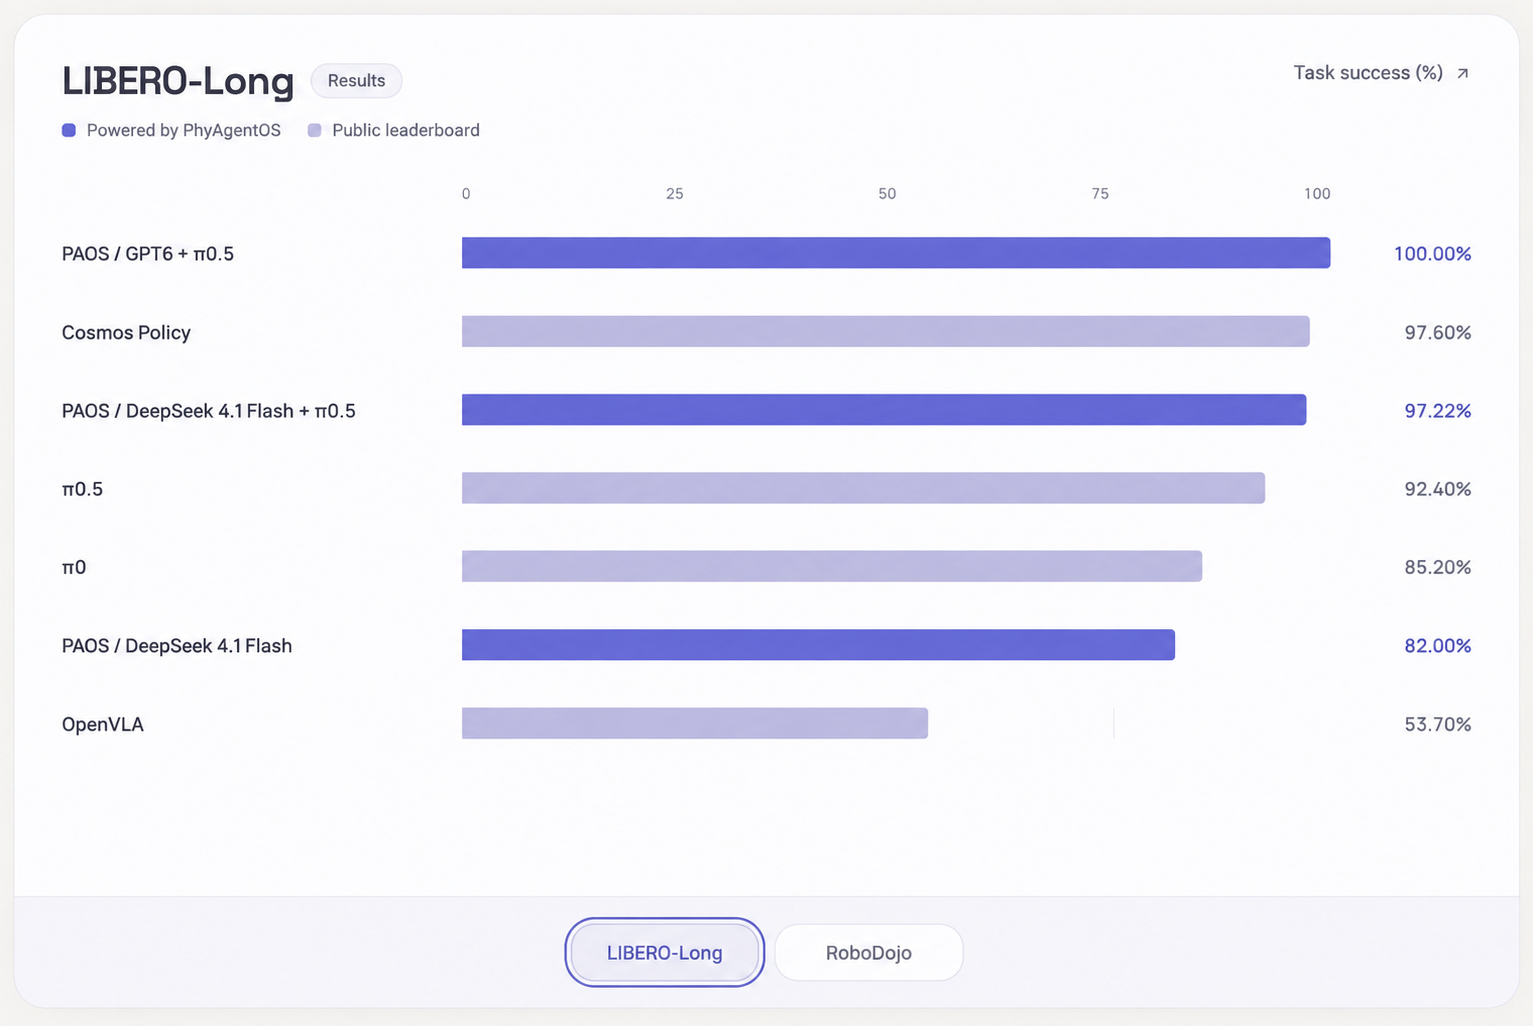
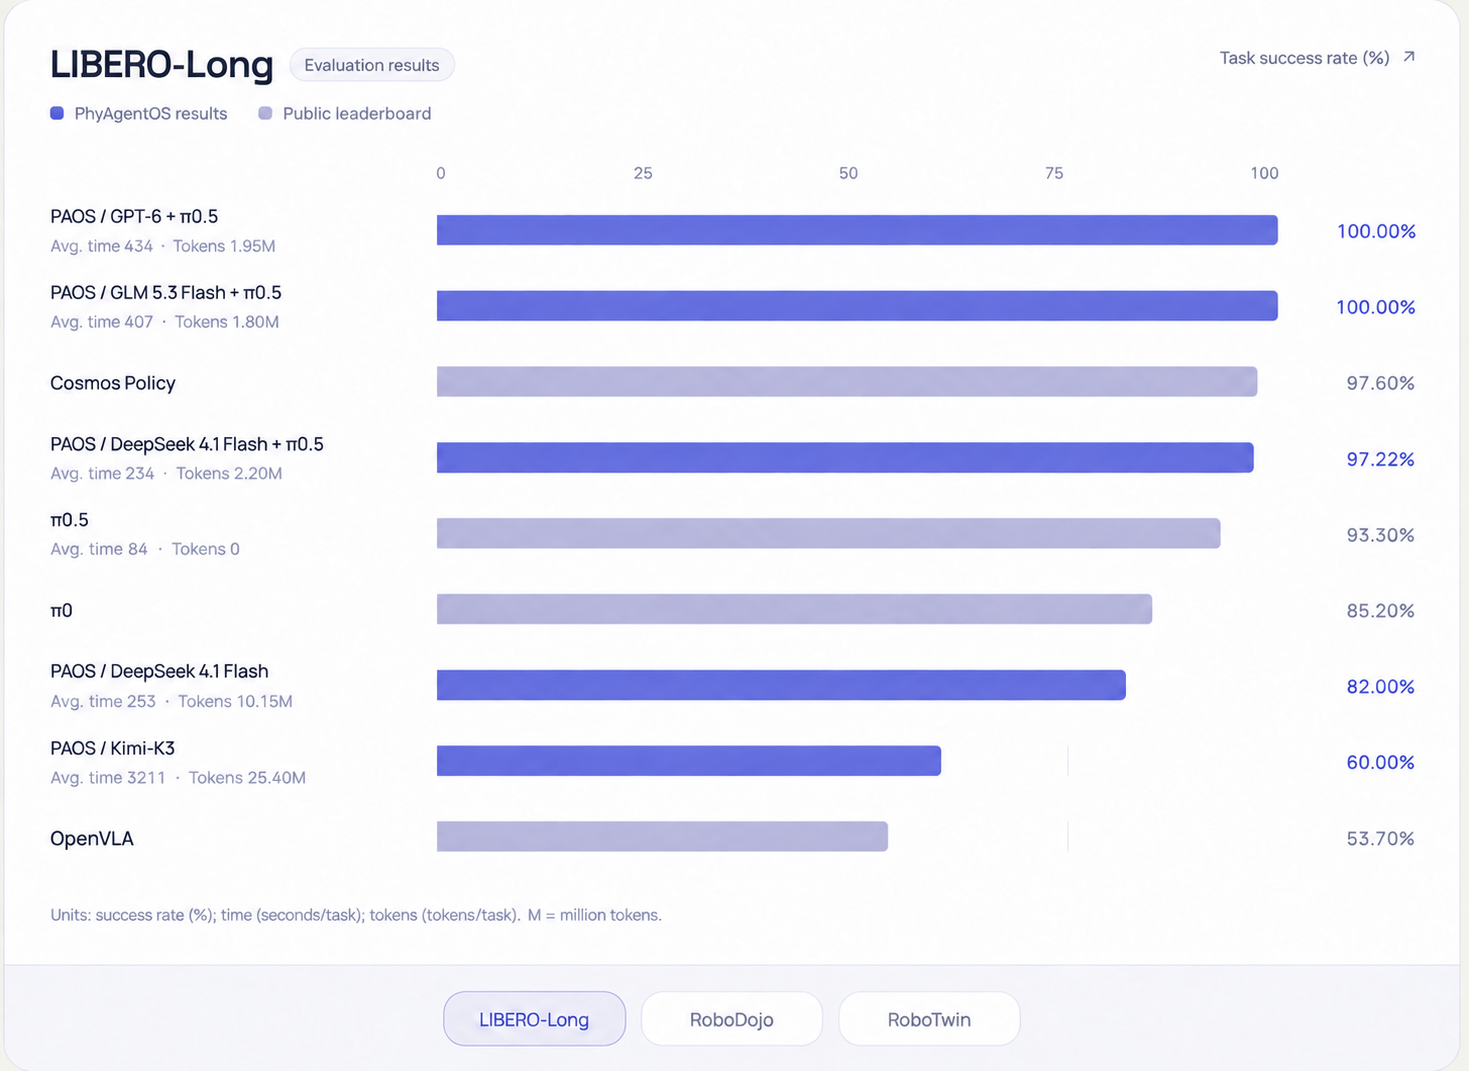
docs: refresh benchmark figures, metrics and evaluation scope

diff --git a/docs/benchmarks.md b/docs/benchmarks.md
@@ -2,53 +2,91 @@
 
 [English README](../README.md#benchmarks) · [中文 README](../README_zh.md#benchmarks)
 
-These values were transcribed from the two benchmark screenshots supplied by the maintainer for the README redesign. PAOS entries are PhyAgentOS results; other entries are labeled in the screenshots as public-leaderboard data. Model names are preserved verbatim, including `GPT6`, `DM0.5`, and `G0.5`.
+Values are transcribed from the three latest benchmark screenshots supplied by the maintainer. Model labels, ordering, and source categories follow the figures. PAOS entries are PhyAgentOS results; muted entries are labeled as public-leaderboard references in the source figures.
 
-以下数值来自维护者为 README 改版提供的两张测评截图。PAOS 为 PhyAgentOS 结果，其余条目在原图中标注为公开榜单数据。模型名称按原图保留，包括 `GPT6`、`DM0.5` 和 `G0.5`。
+以下数值来自维护者提供的最新三张评测截图，模型名称、顺序和来源分类按原图保留。PAOS 为 PhyAgentOS 结果，浅色条目在原图中标为公开榜单参考值。
 
-**Metric / 指标:** task success rate (%) / 任务成功率，越高越好。
-
-## LIBERO-Long
-
-![Original LIBERO-Long evaluation figure](imgs/benchmark-libero-long-original.jpg)
-
-| Configuration / 配置 | Success / 成功率 | Source category / 来源类别 |
-| --- | ---: | --- |
-| PAOS / GPT6 + π0.5 | 100.00% | PhyAgentOS |
-| Cosmos Policy | 97.60% | Public leaderboard / 公开榜单 |
-| PAOS / DeepSeek 4.1 Flash + π0.5 | 97.22% | PhyAgentOS |
-| π0.5 | 92.40% | Public leaderboard / 公开榜单 |
-| π0 | 85.20% | Public leaderboard / 公开榜单 |
-| PAOS / DeepSeek 4.1 Flash | 82.00% | PhyAgentOS |
-| OpenVLA | 53.70% | Public leaderboard / 公开榜单 |
-
-## RoboDojo
-
-![Original RoboDojo evaluation figure](imgs/benchmark-robodojo-original.jpg)
-
-| Configuration / 配置 | Success / 成功率 | Source category / 来源类别 |
-| --- | ---: | --- |
-| PAOS / DeepSeek 4.1 Flash + π0.5 | 26.00% | PhyAgentOS |
-| DM0.5 | 24.97% | Public leaderboard / 公开榜单 |
-| PAOS / GPT6 + π0.5 | 23.30% | PhyAgentOS |
-| G0.5 | 20.23% | Public leaderboard / 公开榜单 |
-| PAOS / GLM 5.3 Flash + π0.5 | 20.00% | PhyAgentOS |
-| π0.5 | 6.91% | Public leaderboard / 公开榜单 |
-| LingBot-VLA | 5.50% | Public leaderboard / 公开榜单 |
-| π0 | 3.48% | Public leaderboard / 公开榜单 |
+**Units / 单位:** success rate (%) / 成功率；average time (seconds/task) / 平均耗时（秒/任务）；tokens (tokens/task) / Token 消耗（Tokens/任务）。M = million tokens / 百万 Token；“~” = approximate / 约；“—” = not reported / 未提供，不代表零。
 
 ## Evaluation context / 评测口径
 
-The supplied screenshots do not specify evaluation dates, task subsets, episode counts, seeds, model checkpoint identifiers, compute budgets, reset/retry policies, or per-baseline source URLs. No raw run logs or reproducible evaluation commands accompanied them. Values are reported as supplied, not independently reproduced by this documentation change. Cross-method comparisons may use different evaluation protocols; no matched-protocol ranking or statistical significance is claimed.
+| Benchmark | Task scope / 任务范围 |
+| --- | --- |
+| LIBERO | `libero-10` (labeled LIBERO-Long in the figures / 图中标为 LIBERO-Long) |
+| RoboDojo | 10 randomly sampled tasks / 随机抽样 10 个任务 |
+| RoboTwin | 10 randomly sampled tasks / 随机抽样 10 个任务 |
 
-截图未注明评测日期、任务子集、episode 数量、随机种子、模型 checkpoint、计算预算、重置/重试策略或各基线的原始来源链接，也未附原始日志和可复现命令。本次文档改版按所提供结果展示，没有独立复跑测评。不同方法可能采用不同评测协议，因此不声明同条件排名或统计显著性。
+These task scopes were confirmed by the maintainer. Sample counts vary for some models; a uniform number of initial states or total episodes is not specified. Public-leaderboard references may use different protocols.
+
+以上任务范围由维护者确认。部分模型采用不同的样本量，因此不统一声明初始状态数或总评测次数。公开榜单参考结果可能采用不同评测协议。
+
+The supplied screenshots do not specify evaluation dates, exact sampled task IDs, per-model episode counts, seeds, model checkpoint identifiers, compute budgets, reset/retry policies, or per-baseline source URLs. No raw run logs or reproducible evaluation commands accompanied them. Values are reported as supplied, not independently reproduced by this documentation change. Cross-method comparisons may use different evaluation protocols; no matched-protocol ranking or statistical significance is claimed.
+
+截图未注明评测日期、抽样任务的具体 ID、各模型的 episode 数量、随机种子、模型 checkpoint、计算预算、重置/重试策略或各基线的原始来源链接，也未附原始日志和可复现命令。本次文档改版按所提供结果展示，没有独立复跑测评。不同方法可能采用不同评测协议，因此不声明同条件排名或统计显著性。
 
 For a reproducible release, attach the exact Skill bundle/profile, Core revision, environment version, model configuration, evaluation command, episode-level logs, and the original baseline references to this page.
 
 发布可复现结果时，请在本页补充精确的 Skill Bundle/profile、Core revision、环境版本、模型配置、评测命令、逐 episode 日志及基线原始引用。
 
+## LIBERO-Long
+
+![Original LIBERO-Long evaluation figure](imgs/benchmark-libero-long-original.png)
+
+[English figure](imgs/benchmark-libero-long-en.png)
+
+| Configuration / 配置 | Success / 成功率 | Time (s/task) / 耗时 | Tokens/task | Source / 来源 |
+| --- | ---: | ---: | ---: | --- |
+| PAOS / GPT-6 + π0.5 | 100.00% | 434 | 1.95M | PhyAgentOS |
+| PAOS / GLM 5.3 Flash + π0.5 | 100.00% | 407 | 1.80M | PhyAgentOS |
+| Cosmos Policy | 97.60% | — | — | Public leaderboard / 公开榜单 |
+| PAOS / DeepSeek 4.1 Flash + π0.5 | 97.22% | 234 | 2.20M | PhyAgentOS |
+| π0.5 | 93.30% | 84 | 0 | Public leaderboard / 公开榜单 |
+| π0 | 85.20% | — | — | Public leaderboard / 公开榜单 |
+| PAOS / DeepSeek 4.1 Flash | 82.00% | 253 | 10.15M | PhyAgentOS |
+| PAOS / Kimi-K3 | 60.00% | 3211 | 25.40M | PhyAgentOS |
+| OpenVLA | 53.70% | — | — | Public leaderboard / 公开榜单 |
+
+## RoboDojo
+
+![Original RoboDojo evaluation figure](imgs/benchmark-robodojo-original.png)
+
+[English figure](imgs/benchmark-robodojo-en.png)
+
+| Configuration / 配置 | Success / 成功率 | Time (s/task) / 耗时 | Tokens/task | Source / 来源 |
+| --- | ---: | ---: | ---: | --- |
+| PAOS / DeepSeek 4.1 Flash + π0.5 | 26.70% | 540 | ~0.3M | PhyAgentOS |
+| DM0.5 | 24.97% | — | — | Public leaderboard / 公开榜单 |
+| PAOS / GPT-6 + π0.5 | 23.30% | 324 | 2.73M | PhyAgentOS |
+| G0.5 | 20.23% | — | — | Public leaderboard / 公开榜单 |
+| PAOS / GLM 5.3 Flash + π0.5 | 20.00% | 1260 | 8.56M | PhyAgentOS |
+| PAOS / DeepSeek 4.1 Flash | 8.30% | 6900 | 1.505M | PhyAgentOS |
+| PAOS / GPT-6 | 8.30% | 1241 | 0.392M | PhyAgentOS |
+| π0.5 | 6.91% | — | — | Public leaderboard / 公开榜单 |
+| LingBot-VLA | 5.50% | — | — | Public leaderboard / 公开榜单 |
+| π0 | 3.48% | — | — | Public leaderboard / 公开榜单 |
+| PAOS / GLM 5.3 Flash | 2.78% | 670 | 0.083M | PhyAgentOS |
+| PAOS / Kimi-K3 | 0.00% | 2503 | 0.30M | PhyAgentOS |
+
+## RoboTwin
+
+![Original RoboTwin evaluation figure](imgs/benchmark-robotwin-original.png)
+
+[English figure](imgs/benchmark-robotwin-en.png)
+
+| Configuration / 配置 | Success / 成功率 | Time (s/task) / 耗时 | Tokens/task | Source / 来源 |
+| --- | ---: | ---: | ---: | --- |
+| PAOS / Gemini Robotic ER2 + π0.5 | 80.00% | 1256 | 0.631M | PhyAgentOS |
+| PAOS / DeepSeek 4.1 Flash + π0.5 | 77.80% | 877 | 30.88M | PhyAgentOS |
+| PAOS / GPT-6 + π0.5 | 76.70% | 1003 | 7.98M | PhyAgentOS |
+| π0.5 | 73.30% | 348 | 0 | Public leaderboard / 公开榜单 |
+| PAOS / GLM 5.3 Flash + π0.5 | 66.70% | 1648 | — | PhyAgentOS |
+| PAOS / Kimi-K3 + π0.5 | 66.70% | 1170 | 14.08M | PhyAgentOS |
+| PAOS / Gemini 3.8 Flash + π0.5 | 66.70% | 883 | 0.031M | PhyAgentOS |
+| GalaxeaVLA | 43.30% | — | — | Public leaderboard / 公开榜单 |
+| starVLA | 20.00% | — | — | Public leaderboard / 公开榜单 |
+
 ## Image consistency / 图像一致性
 
-The English figures preserve all 15 model/result pairs, ordering, and source categories from the supplied Chinese figures. Layout and typography were regenerated for translation; the numeric tables above are the exact-value reference. The control-mode figure uses `GPT-6`, while the benchmark source uses `GPT6`; source labels are retained and do not establish an exact model/checkpoint identity.
+The Chinese figures are unmodified originals. English figures translate the same 30 rows, preserving model labels, success rates, time and token values, ordering, and source categories. The tables above provide the exact-value reference; missing values are not treated as zero. Source labels do not establish exact model/checkpoint identities.
 
-英文图保留中文原图全部 15 组模型与结果、排序和来源分类。翻译时重新生成了版式与文字，精确数值以上方表格为准。控制方式图写作 `GPT-6`，测评原图写作 `GPT6`；保留来源命名不代表已核实精确模型或 checkpoint 身份。
+中文图使用未经修改的原图。英文图翻译相同的 30 条结果，保留模型名称、成功率、耗时、Token 消耗、顺序及来源分类。精确数值以上方表格为准，未提供的数值不视为零。来源命名不代表已核实精确模型或 checkpoint 身份。

diff --git a/docs/imgs/english-images.prompts.md b/docs/imgs/english-images.prompts.md
@@ -6,10 +6,14 @@ Localized with the built-in image generation tool. Chinese originals remain unch
 
 Translate this diagram into English only, preserve layout, colors, three cards, arrows and all model names. Heading: 'One Framework, Three Control Modes'. Subtitle: 'General models, action models, and hybrid control.' Left small heading 'General models · GPT-6 / DeepSeek / GLM'; middle 'Hybrid control · GPT-6 + π0.5 / DeepSeek + π0.5'; right 'Action models · π0.5 / π0 / OpenVLA'. Keep System 1, System 1 + System 2, System 2, LLM or VLM, VLA or WAM, PhyAgentOS, Action verbatim. Bottom descriptions: left 'General models generate actions or compose tools to complete tasks.' middle 'General models handle reasoning; action models handle low-level actions.' right 'Action models directly predict robot actions.' Ensure no Chinese remains. Crisp legible typography, no other changes.
 
-## benchmark-libero-long
+## Benchmark translations — 2026-10-07
 
-Translate ONLY Chinese labels in this benchmark to English. Preserve bar geometry, colors, model names, ranking, all numbers and tabs exactly. Translate badge as 'Results', legend dark purple 'Powered by PhyAgentOS', pale purple 'Public leaderboard', upper right 'Task success (%)'. All other text unchanged. Exact rows: PAOS / GPT6 + π0.5 100.00%; Cosmos Policy 97.60%; PAOS / DeepSeek 4.1 Flash + π0.5 97.22%; π0.5 92.40%; π0 85.20%; PAOS / DeepSeek 4.1 Flash 82.00%; OpenVLA 53.70%. Preserve title LIBERO-Long, 0 25 50 75 100 ticks and both bottom tabs. No Chinese text remains. Do not invent or alter any data. High quality clear text.
+Inputs: `benchmark-libero-long-original.png`, `benchmark-robodojo-original.png`, and `benchmark-robotwin-original.png`. Outputs: corresponding `-en.png` files. Generated with the built-in image generation tool; the Chinese PNG originals are copied without modification. Exact data: [benchmark tables](../benchmarks.md).
 
-## benchmark-robodojo
+### Shared prompt
 
-Translate ONLY Chinese labels in this benchmark to English. Preserve bar geometry, colors, model names, ranking, all numbers and tabs exactly. Translate badge as 'Results', legend dark purple 'Powered by PhyAgentOS', pale purple 'Public leaderboard', upper right 'Task success (%)'. Exact rows: PAOS / DeepSeek 4.1 Flash + π0.5 26.00%; DM0.5 24.97%; PAOS / GPT6 + π0.5 23.30%; G0.5 20.23%; PAOS / GLM 5.3 Flash + π0.5 20.00%; π0.5 6.91%; LingBot-VLA 5.50%; π0 3.48%. Preserve title RoboDojo, 0 25 50 75 100 ticks and both bottom tabs. No Chinese text remains. Do not invent or alter any data. High quality clear text.
+Use case: text-localization. Translate this attached benchmark chart into English for a GitHub README. Keep every model label, numeric value, percent, time, token count, row ordering, bar length and color category EXACTLY unchanged. Preserve the light background, purple chart style and all three bottom tabs. Translate 评测结果 to Evaluation results; 任务成功率 (%) to Task success rate (%); 基于PhyAgentOS实现 to PhyAgentOS results; 数据源于公开榜单 to Public leaderboard; 平均耗时 to Avg. time; token 消耗 to Tokens. Footer: Units: success rate (%); time (seconds/task); tokens (tokens/task). M = million tokens. Preserve missing token value as — and approximate ~0.3M as approximate. Keep LIBERO-Long title and tab text unchanged, not LIBERO-10. No extra facts, no added rows, no removed rows. All text should be English except mathematical π symbol. High resolution clear typography.
+
+### LIBERO correction prompt
+
+Use case: text-localization correction. Change exactly ONE character/value in this English LIBERO-Long benchmark image. Under the π0.5 row (the 5th row, success 93.30%), the subtitle currently says 'Avg. time 84 · Tokens —'. Replace it with exactly 'Avg. time 84 · Tokens 0'. Zero is the supplied value, not missing. Keep every other text, number, model label, bar, color, layout and all tabs exactly unchanged. Do not change any other row. Output full image.

diff --git a/README.md b/README.md
@@ -161,20 +161,30 @@ These describe integration patterns; model and environment availability depends 
 <a id="benchmarks"></a>
 ## Benchmark
 
-Reported task success rates on **LIBERO-Long** and **RoboDojo**. Purple bars show PhyAgentOS (PAOS); muted bars show public-leaderboard references.
+Reported task success rates on **LIBERO-Long**, **RoboDojo**, and **RoboTwin**. Purple bars show PhyAgentOS (PAOS); muted bars show public-leaderboard references.
+
+**Evaluation scope:** LIBERO uses `libero-10` (labeled LIBERO-Long in the figures). RoboDojo and RoboTwin each use 10 randomly sampled tasks; sample counts vary for some models. Public-leaderboard references may use different protocols.
 
 ![LIBERO-Long benchmark](docs/imgs/benchmark-libero-long-en.png)
 
 ![RoboDojo benchmark](docs/imgs/benchmark-robodojo-en.png)
 
-| PhyAgentOS configuration | LIBERO-Long ↑ | RoboDojo ↑ |
-| --- | ---: | ---: |
-| GPT6 + π0.5 | **100.00%** | 23.30% |
-| DeepSeek 4.1 Flash + π0.5 | 97.22% | **26.00%** |
-| GLM 5.3 Flash + π0.5 | — | 20.00% |
-| DeepSeek 4.1 Flash | 82.00% | — |
+![RoboTwin benchmark](docs/imgs/benchmark-robotwin-en.png)
 
-> English-localized versions of the benchmark figures supplied by the maintainers; model names and reported values are preserved. See [full results and evaluation context](docs/benchmarks.md). “—” means not reported. To reproduce the LIBERO evaluation, follow the [LIBERO quickstart](example/quickstart/libero-quickstart.md).
+| PhyAgentOS configuration | LIBERO-10 ↑ | RoboDojo ↑ | RoboTwin ↑ |
+| --- | ---: | ---: | ---: |
+| GPT-6 + π0.5 | 100.00% | 23.30% | 76.70% |
+| DeepSeek 4.1 Flash + π0.5 | 97.22% | 26.70% | 77.80% |
+| GLM 5.3 Flash + π0.5 | 100.00% | 20.00% | 66.70% |
+| Gemini Robotic ER2 + π0.5 | — | — | 80.00% |
+| Kimi-K3 + π0.5 | — | — | 66.70% |
+| Gemini 3.8 Flash + π0.5 | — | — | 66.70% |
+| DeepSeek 4.1 Flash | 82.00% | 8.30% | — |
+| GPT-6 | — | 8.30% | — |
+| GLM 5.3 Flash | — | 2.78% | — |
+| Kimi-K3 | 60.00% | 0.00% | — |
+
+> English translations of the latest maintainer-supplied figures. See [full results, time and token usage, and evaluation context](docs/benchmarks.md). “—” means not reported. To reproduce the LIBERO evaluation, follow the [LIBERO quickstart](example/quickstart/libero-quickstart.md).
 
 <a id="robot-skills"></a>
 ## Connect a robot or simulator

diff --git a/README_zh.md b/README_zh.md
@@ -160,20 +160,30 @@ paos agent
 <a id="benchmarks"></a>
 ## Benchmark
 
-以下展示 **LIBERO-Long** 与 **RoboDojo** 上的任务成功率。深色为 PhyAgentOS（PAOS）结果，浅色为公开榜单参考值。
+以下展示 **LIBERO-Long**、**RoboDojo** 与 **RoboTwin** 上的任务成功率。深色为 PhyAgentOS（PAOS）结果，浅色为公开榜单参考值。
 
-![LIBERO-Long benchmark](docs/imgs/benchmark-libero-long-original.jpg)
+**评测口径：** LIBERO 使用 `libero-10`（图中标为 LIBERO-Long）；RoboDojo 和 RoboTwin 各随机抽样 10 个任务，部分模型的评测样本量不同。公开榜单参考结果可能采用不同评测协议。
 
-![RoboDojo benchmark](docs/imgs/benchmark-robodojo-original.jpg)
+![LIBERO-Long benchmark](docs/imgs/benchmark-libero-long-original.png)
 
-| PhyAgentOS 配置 | LIBERO-Long ↑ | RoboDojo ↑ |
-| --- | ---: | ---: |
-| GPT6 + π0.5 | **100.00%** | 23.30% |
-| DeepSeek 4.1 Flash + π0.5 | 97.22% | **26.00%** |
-| GLM 5.3 Flash + π0.5 | — | 20.00% |
-| DeepSeek 4.1 Flash | 82.00% | — |
+![RoboDojo benchmark](docs/imgs/benchmark-robodojo-original.png)
 
-> 使用维护者提供的评测原图。完整数值与评测口径见 [Benchmark 说明](docs/benchmarks.md)；“—”表示未提供。复现 LIBERO 评测见 [LIBERO 快速启动](example/quickstart/libero-quickstart.md)。
+![RoboTwin benchmark](docs/imgs/benchmark-robotwin-original.png)
+
+| PhyAgentOS 配置 | LIBERO-10 ↑ | RoboDojo ↑ | RoboTwin ↑ |
+| --- | ---: | ---: | ---: |
+| GPT-6 + π0.5 | 100.00% | 23.30% | 76.70% |
+| DeepSeek 4.1 Flash + π0.5 | 97.22% | 26.70% | 77.80% |
+| GLM 5.3 Flash + π0.5 | 100.00% | 20.00% | 66.70% |
+| Gemini Robotic ER2 + π0.5 | — | — | 80.00% |
+| Kimi-K3 + π0.5 | — | — | 66.70% |
+| Gemini 3.8 Flash + π0.5 | — | — | 66.70% |
+| DeepSeek 4.1 Flash | 82.00% | 8.30% | — |
+| GPT-6 | — | 8.30% | — |
+| GLM 5.3 Flash | — | 2.78% | — |
+| Kimi-K3 | 60.00% | 0.00% | — |
+
+> 使用维护者提供的最新评测原图。完整数值、耗时、Token 消耗与评测口径见 [Benchmark 说明](docs/benchmarks.md)；“—”表示未提供。复现 LIBERO 评测见 [LIBERO 快速启动](example/quickstart/libero-quickstart.md)。
 
 <a id="robot-skills"></a>
 ## 接入机器人或仿真环境
